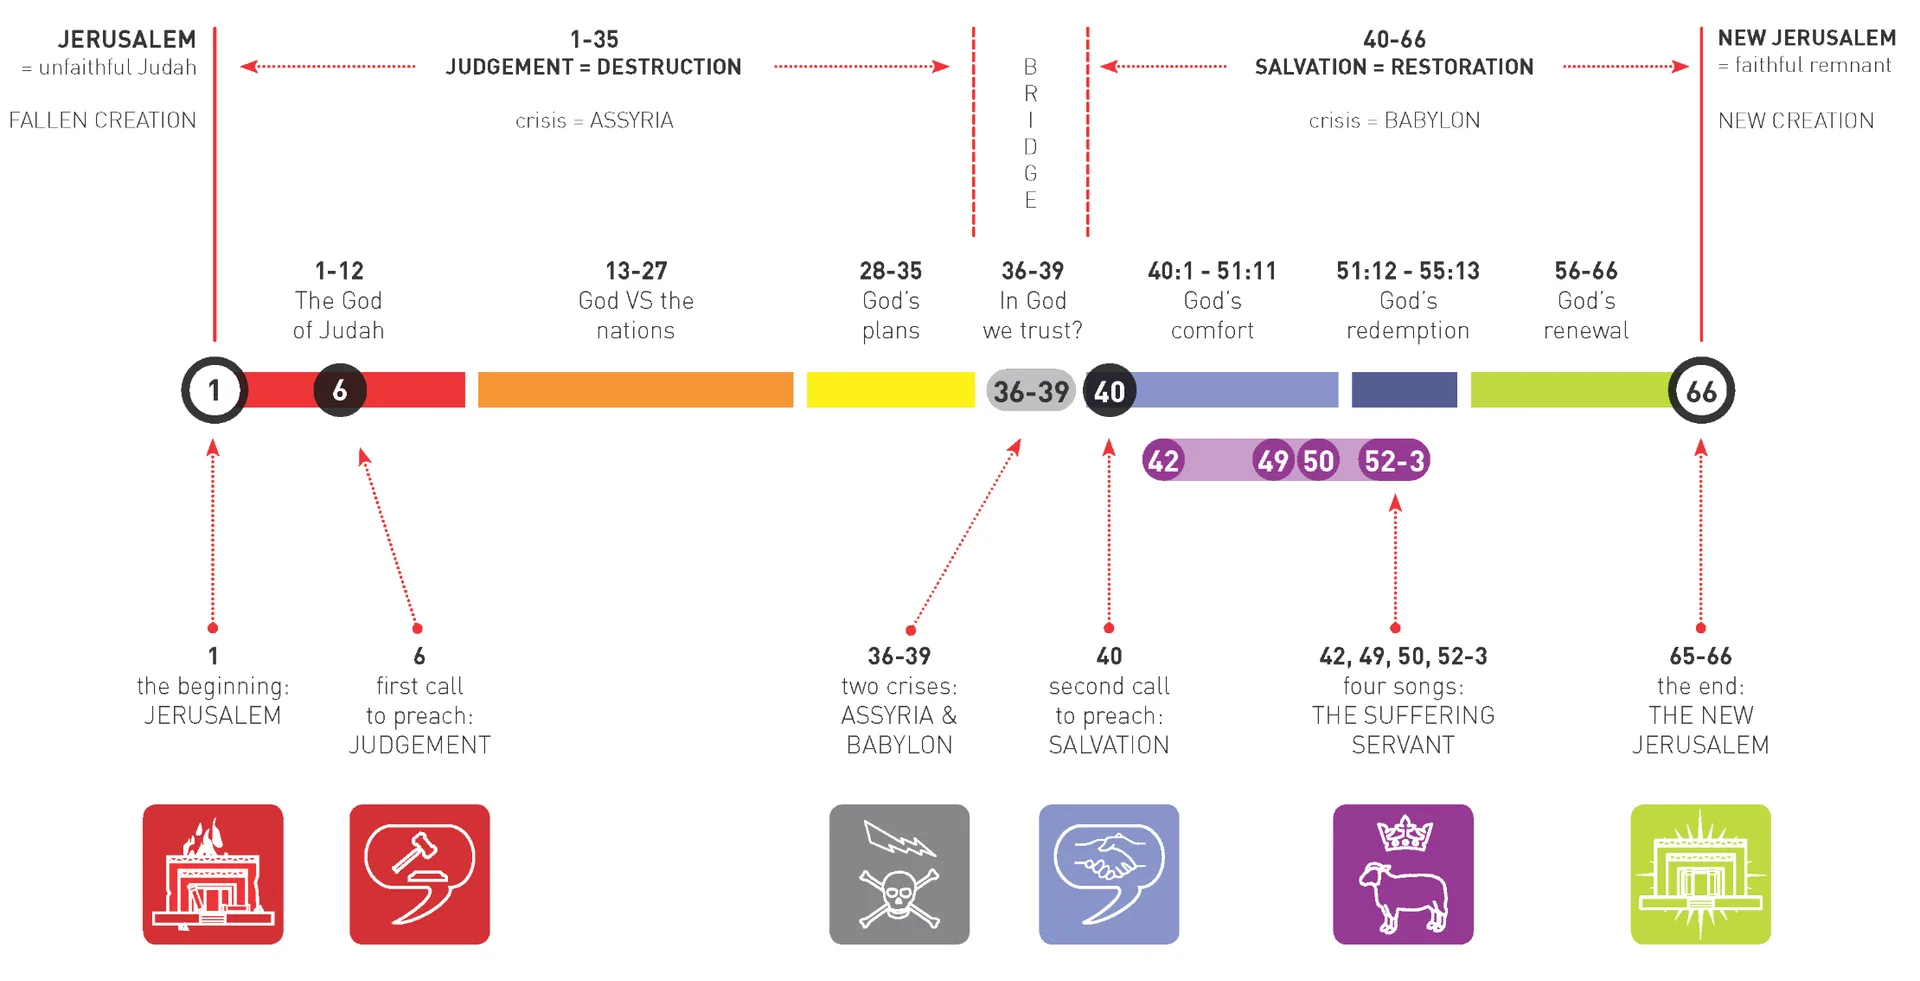
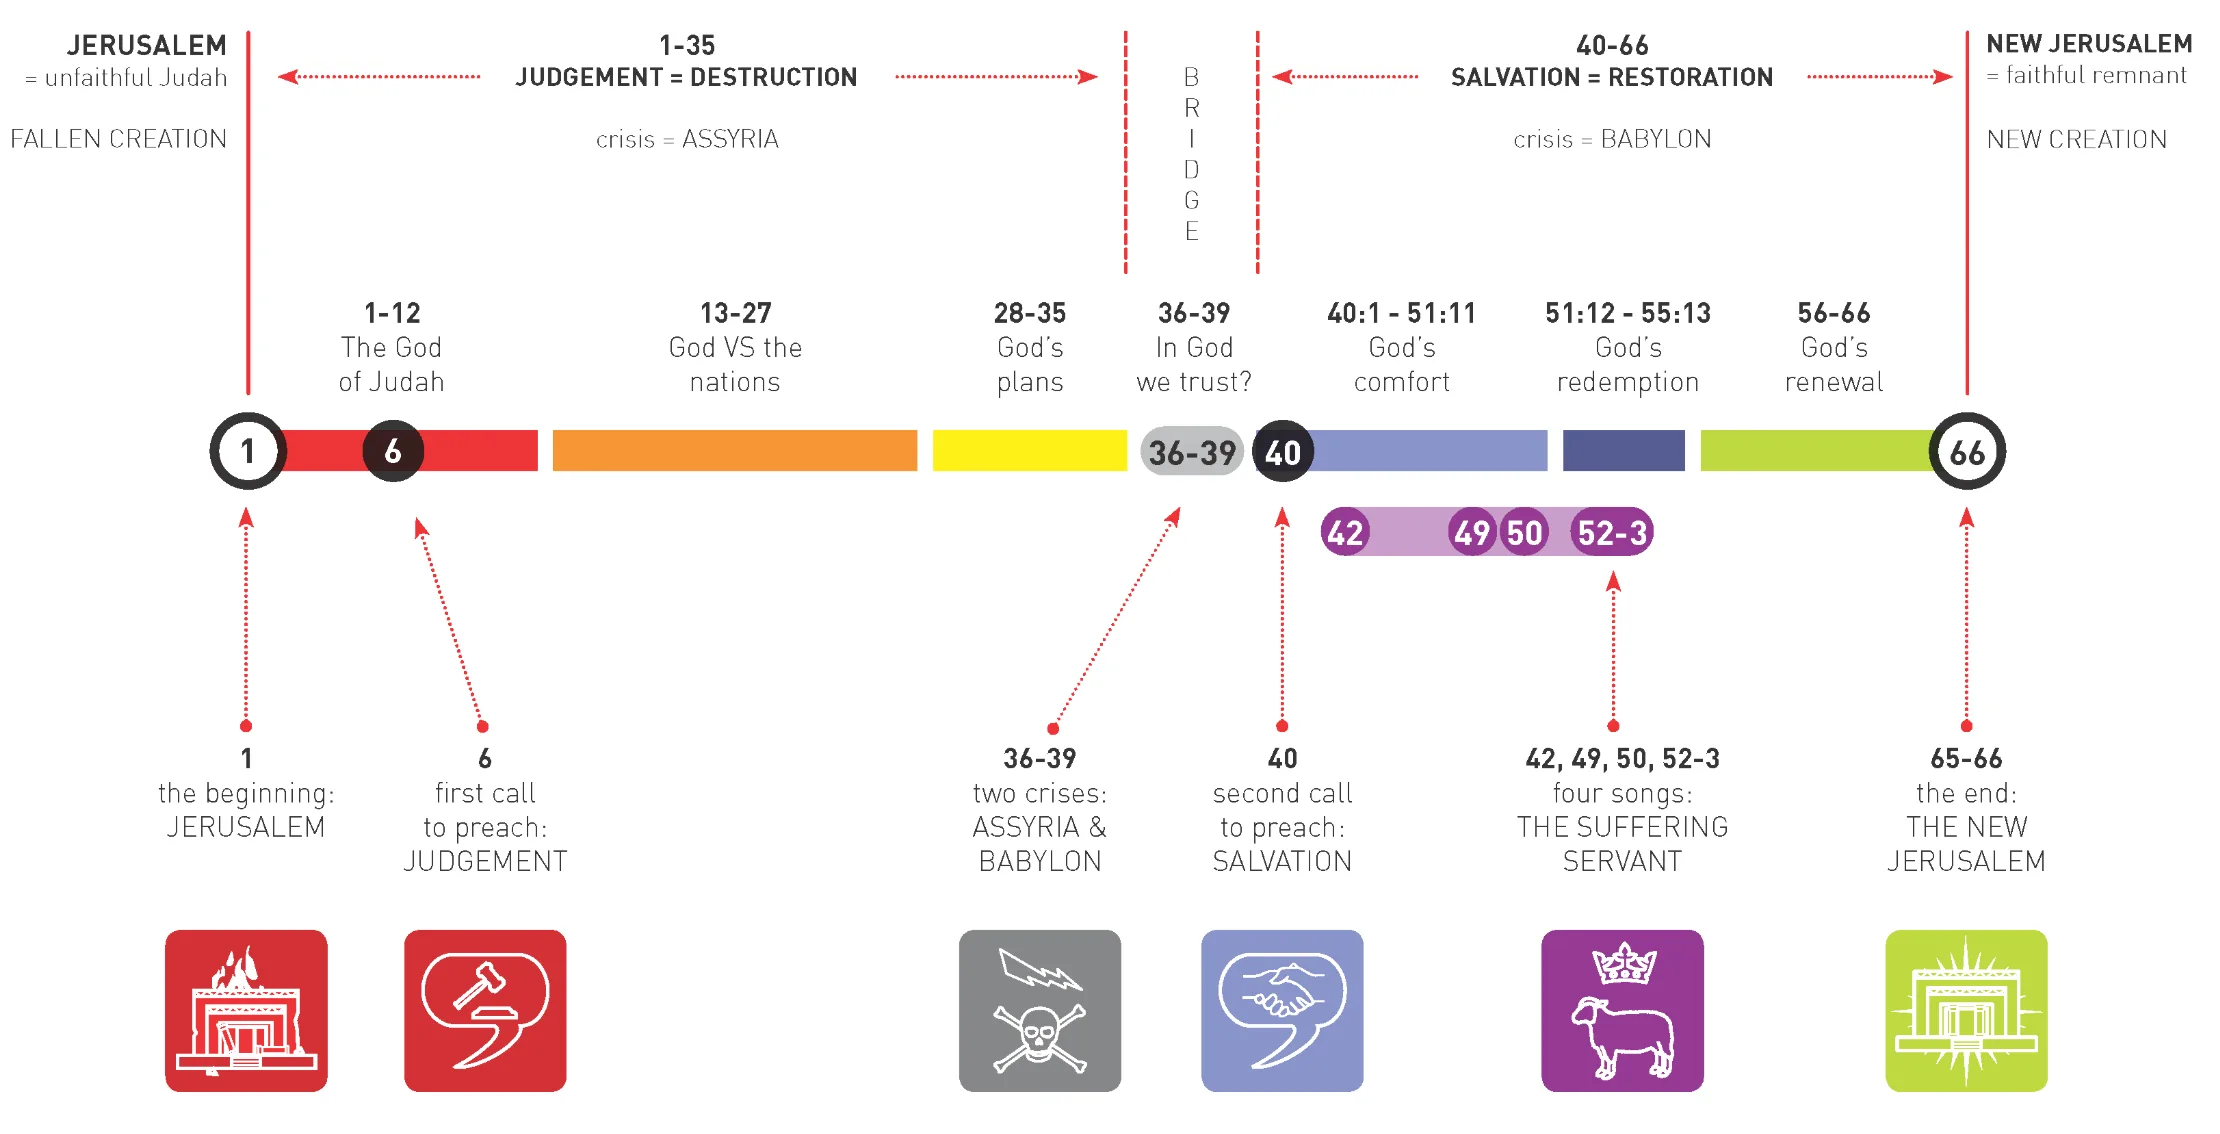
Lesson for Oct 19–25 (Jeremiah); notes from Claude Design; sharper infographics
"Before I Formed Thee in the Belly I Knew Thee" (Jeremiah 1–3; 7; 16–18; 20):
Michelangelo's Jeremiah on the title, Elder Holland's Sabbath video, a full-
screen timeline, and the discussion slides, with the follow-along join slide
since there is a timeline to zoom into. The video embed gets the same
treatment as before (no-cookie domain, no related videos, inline on iPhone,
poster behind it).

Claude Design now writes presenter notes as data-speaker-notes on each slide.
The parser reads them, the import script and the /manage upload pass them to
deck_save, and a slide with no notes keeps whatever was typed in /manage on a
re-import.

Imported images were capped at slide size, which blurred infographics once
students pinch-zoomed in. The cap is now twice slide size (3840x2160); last
week's two timelines are regenerated at their full resolution at the same
addresses.

diff --git a/lessons/2026-10-19-before-i-formed-thee/Jeremiah Lesson.dc.html b/lessons/2026-10-19-before-i-formed-thee/Jeremiah Lesson.dc.html
@@ -1,0 +1,42 @@
+<!DOCTYPE html>
+<html><head><meta charset="utf-8"><meta name="viewport" content="width=device-width, initial-scale=1"><script src="./support.js"></script></head><body>
+<x-dc>
+<!-- cwass:join=follow --> <!-- no polls; the follow-along slide helps people zoom into the timeline -->
+<helmet><script src="./ds-base.js"></script><style>body{margin:0;background:#D5CFBE}@media print{@page{size:1920px 1080px;margin:0}section{page-break-after:always;box-shadow:none !important}}</style></helmet>
+<div style="width:100%;overflow:hidden;height:var(--deck-h,auto)"><div data-deck-stack="true" style="display:flex;flex-direction:column;align-items:flex-start;gap:24px;padding:24px;width:1968px;transform:scale(var(--deck-scale,1));transform-origin:top left">
+<section data-screen-label="01 Title" style="box-sizing:border-box;width:1920px;height:1080px;position:relative;overflow:hidden;font-family:'Source Serif 4',Georgia,serif;box-shadow:0 12px 32px rgba(53,56,58,.14);background:#003057;color:#fff;display:flex">
+<div style="flex:1;padding:80px 112px;display:flex;flex-direction:column"><div style="font-family:'Source Sans 3',Helvetica,sans-serif;font-size:36px;font-weight:600;letter-spacing:.14em;text-transform:uppercase;color:rgba(255,255,255,.72)">Sunday School · Come, Follow Me</div><div style="flex:1"></div>
+<h1 style="font-size:84px;line-height:1.05;letter-spacing:-.02em;font-weight:600;margin:0;text-wrap:pretty;color:#fff">“Before I Formed Thee in the Belly I Knew Thee”</h1><hr style="width:120px;height:5px;background:#DBBF6B;border:0;margin:48px 0 40px">
+<div style="font-size:42px;line-height:1.5;color:rgba(255,255,255,.9)">Jeremiah 1–3; 7; 16–18; 20</div><div style="font-family:'Source Sans 3',sans-serif;font-size:36px;color:rgba(255,255,255,.8);margin-top:12px">October 19–25</div><div style="flex:1"></div></div>
+<div style="width:787px;height:100%;position:relative;background:#001e38"><img src="uploads/pasted-1792949905868-0.png" alt="The Prophet Jeremiah by Michelangelo" style="width:100%;height:100%;object-fit:cover;display:block"><div style="position:absolute;left:0;right:0;bottom:0;padding:48px 40px 28px;background:linear-gradient(to top,rgba(0,48,87,.86),rgba(0,48,87,0));font-family:'Source Sans 3',sans-serif;font-size:24px;font-style:italic;color:#fff">Michelangelo, The Prophet Jeremiah, Sistine Chapel ceiling, c. 1511</div></div></section>
+<section data-screen-label="02 Elder Holland video" data-speaker-notes="Play the video." style="box-sizing:border-box;width:1920px;height:1080px;position:relative;overflow:hidden;font-family:'Source Serif 4',Georgia,serif;box-shadow:0 12px 32px rgba(53,56,58,.14);padding:80px 112px;background:#003057;color:#fff;display:flex;flex-direction:column;padding:56px 112px 48px"><div style="font-family:'Source Sans 3',Helvetica,sans-serif;font-size:36px;font-weight:600;letter-spacing:.14em;text-transform:uppercase;color:rgba(255,255,255,.72)">Opening activity</div><div style="flex:1;display:flex;justify-content:center;align-items:center;min-height:0;margin:24px 0"><div style="height:100%;aspect-ratio:16/9;max-width:100%;border-radius:6px;overflow:hidden;background:#000 url(https://i.ytimg.com/vi/5b-7uzXtd-0/maxresdefault.jpg) center/cover no-repeat"><iframe src="https://www.youtube-nocookie.com/embed/5b-7uzXtd-0?rel=0&amp;playsinline=1" title="Upon My Holy Day: Honoring the Sabbath" loading="lazy" allow="autoplay; encrypted-media; picture-in-picture; fullscreen" allowfullscreen style="width:100%;height:100%;border:0;display:block"></iframe></div></div>
+<h2 style="font-size:56px;line-height:1.15;font-weight:600;margin:0;text-align:center;text-wrap:pretty;color:#fff">What words come to mind when you hear the word “Sabbath”?</h2></section>
+<section data-screen-label="03 Opening discussion" data-speaker-notes="Invite a few short responses." style="box-sizing:border-box;width:1920px;height:1080px;position:relative;overflow:hidden;font-family:'Source Serif 4',Georgia,serif;box-shadow:0 12px 32px rgba(53,56,58,.14);padding:80px 112px;background:#235C35;color:#fff;display:flex;flex-direction:column;align-items:center;justify-content:center;text-align:center"><div style="font-family:'Source Sans 3',Helvetica,sans-serif;font-size:36px;font-weight:600;letter-spacing:.14em;text-transform:uppercase;color:rgba(255,255,255,.72)">Discussion</div><h2 style="font-size:88px;line-height:1.05;letter-spacing:-.02em;font-weight:600;margin:40px 0 0;max-width:18ch;text-wrap:pretty;color:#fff">What are some ways we can “hallow the Sabbath day”?</h2><hr style="width:120px;height:5px;background:#DBBF6B;border:0;margin:56px 0 0"></section>
+<section data-screen-label="04 Timeline" data-speaker-notes="Briefly introduce Jeremiah's historical setting and the challenges he faced." style="box-sizing:border-box;width:1920px;height:1080px;position:relative;overflow:hidden;font-family:'Source Serif 4',Georgia,serif;box-shadow:0 12px 32px rgba(53,56,58,.14);background:#FAF8F3;display:flex;justify-content:center"><img src="uploads/pasted-1792949864855-0.png" alt="Jeremiah timeline" style="height:1080px;width:auto;display:block"></section>
+<section data-screen-label="05 Metaphors" data-speaker-notes="" style="box-sizing:border-box;width:1920px;height:1080px;position:relative;overflow:hidden;font-family:'Source Serif 4',Georgia,serif;box-shadow:0 12px 32px rgba(53,56,58,.14);padding:80px 112px;background:#EFEFE7;display:flex;flex-direction:column;justify-content:center"><div style="font-family:'Source Sans 3',Helvetica,sans-serif;font-size:36px;font-weight:600;letter-spacing:.14em;text-transform:uppercase;color:#676B6E">Metaphors in scripture</div><hr style="width:120px;height:5px;background:#C1A01E;border:0;margin:32px 0 56px"><p style="font-size:42px;line-height:1.5;color:#53575B;margin:0 0 56px;max-width:52ch;text-wrap:pretty">The book of Jeremiah is rich with metaphor: the partridge, the tree by a river, hunters and fishers, and the potter’s clay (Jeremiah 16–18).</p><ul style="list-style:none;margin:0;padding:0;display:flex;flex-direction:column;gap:36px"><li style="font-size:52px;line-height:1.3;padding-left:48px;position:relative;color:#000;text-wrap:pretty"><span style="position:absolute;left:0;top:.5em;width:14px;height:14px;background:#C1A01E"></span>What are some of your favorite metaphors in scripture?</li><li style="font-size:52px;line-height:1.3;padding-left:48px;position:relative;color:#000;text-wrap:pretty"><span style="position:absolute;left:0;top:.5em;width:14px;height:14px;background:#C1A01E"></span>Are there any in Jeremiah that you discovered this week or have always loved?</li></ul></section>
+<section data-screen-label="06 Weight of callings" data-speaker-notes="" style="box-sizing:border-box;width:1920px;height:1080px;position:relative;overflow:hidden;font-family:'Source Serif 4',Georgia,serif;box-shadow:0 12px 32px rgba(53,56,58,.14);padding:80px 112px;background:#EFEFE7;display:flex;flex-direction:column;justify-content:center"><div style="font-family:'Source Sans 3',Helvetica,sans-serif;font-size:36px;font-weight:600;letter-spacing:.14em;text-transform:uppercase;color:#676B6E">The weight of our callings</div><hr style="width:120px;height:5px;background:#C1A01E;border:0;margin:32px 0 56px"><p style="font-size:42px;line-height:1.5;color:#53575B;margin:0 0 56px;max-width:52ch;text-wrap:pretty">Jeremiah 1:5 teaches that before he was born, Jeremiah was ordained to be a prophet to the nations. In Jeremiah 20, he laments the difficulties of his calling.</p><ul style="list-style:none;margin:0;padding:0;display:flex;flex-direction:column;gap:36px"><li style="font-size:52px;line-height:1.3;padding-left:48px;position:relative;color:#000;text-wrap:pretty"><span style="position:absolute;left:0;top:.5em;width:14px;height:14px;background:#C1A01E"></span>What are some things that make our callings difficult?</li></ul></section>
+<section data-screen-label="06b Weight of callings" data-speaker-notes="" style="box-sizing:border-box;width:1920px;height:1080px;position:relative;overflow:hidden;font-family:'Source Serif 4',Georgia,serif;box-shadow:0 12px 32px rgba(53,56,58,.14);padding:80px 112px;background:#235C35;color:#fff;display:flex;flex-direction:column;justify-content:center"><div style="font-family:'Source Sans 3',Helvetica,sans-serif;font-size:36px;font-weight:600;letter-spacing:.14em;text-transform:uppercase;color:rgba(255,255,255,.72)">The weight of our callings</div><hr style="width:120px;height:5px;background:#DBBF6B;border:0;margin:32px 0 56px"><ul style="list-style:none;margin:0;padding:0;display:flex;flex-direction:column;gap:36px"><li style="font-size:52px;line-height:1.3;padding-left:48px;position:relative;color:#fff;text-wrap:pretty"><span style="position:absolute;left:0;top:.5em;width:14px;height:14px;background:#DBBF6B"></span>Think of a time when fulfilling a responsibility or calling—in the Church, at home, or at work—was difficult.</li><li style="font-size:52px;line-height:1.3;padding-left:48px;position:relative;color:#fff;text-wrap:pretty"><span style="position:absolute;left:0;top:.5em;width:14px;height:14px;background:#DBBF6B"></span>What counsel would you give someone feeling the weight of such a calling, based on what you’ve learned from the Lord?</li></ul></section>
+<section data-screen-label="07 Heal your backslidings" data-speaker-notes="" style="box-sizing:border-box;width:1920px;height:1080px;position:relative;overflow:hidden;font-family:'Source Serif 4',Georgia,serif;box-shadow:0 12px 32px rgba(53,56,58,.14);padding:80px 112px;background:#EFEFE7;display:flex;flex-direction:column;justify-content:center"><div style="font-family:'Source Sans 3',Helvetica,sans-serif;font-size:36px;font-weight:600;letter-spacing:.14em;text-transform:uppercase;color:#676B6E">“I will heal your backslidings”</div><hr style="width:120px;height:5px;background:#C1A01E;border:0;margin:32px 0 56px"><p style="font-size:42px;line-height:1.5;color:#53575B;margin:0 0 56px;max-width:52ch;text-wrap:pretty">In Jeremiah 7, the Lord calls His people to repent. In Jeremiah 3:22, He promises, “I will heal your backslidings.”</p><ul style="list-style:none;margin:0;padding:0;display:flex;flex-direction:column;gap:36px"><li style="font-size:52px;line-height:1.3;padding-left:48px;position:relative;color:#000;text-wrap:pretty"><span style="position:absolute;left:0;top:.5em;width:14px;height:14px;background:#C1A01E"></span>How can we help someone know they are loved, even when they’ve made mistakes?</li><li style="font-size:52px;line-height:1.3;padding-left:48px;position:relative;color:#000;text-wrap:pretty"><span style="position:absolute;left:0;top:.5em;width:14px;height:14px;background:#C1A01E"></span>Why can this be difficult sometimes, especially in our closest relationships?</li></ul></section>
+<section data-screen-label="08 Fishers and hunters" data-speaker-notes="" style="box-sizing:border-box;width:1920px;height:1080px;position:relative;overflow:hidden;font-family:'Source Serif 4',Georgia,serif;box-shadow:0 12px 32px rgba(53,56,58,.14);padding:80px 112px;background:#003057;color:#fff;display:flex;flex-direction:column;justify-content:center"><div style="font-family:'Source Sans 3',Helvetica,sans-serif;font-size:36px;font-weight:600;letter-spacing:.14em;text-transform:uppercase;color:rgba(255,255,255,.72)">Closing invitation · Fishers and hunters</div><hr style="width:120px;height:5px;background:#DBBF6B;border:0;margin:32px 0 56px"><h2 style="font-size:64px;line-height:1.15;letter-spacing:-.015em;font-weight:600;margin:0;max-width:26ch;text-wrap:pretty;color:#fff">Prayerfully consider how you might be a fisher or a hunter this week (Jeremiah 16:16).</h2>
+<p style="font-size:42px;line-height:1.5;color:rgba(255,255,255,.9);margin:48px 0 0;max-width:42ch;text-wrap:pretty">The Lord may inspire you to make a phone call or share something on social media that builds, lifts, edifies, or inspires.</p>
+<p style="font-size:48px;line-height:1.3;font-weight:700;color:#DBBF6B;margin:48px 0 0;max-width:30ch">Act on that prompting and record your experience.</p></section>
+</div></div>
+</x-dc>
+<script type="text/x-dc" data-dc-script>
+class Component extends DCLogic {
+  componentDidMount() {
+    this.fit = () => {
+      const stack = document.querySelector('[data-deck-stack]');
+      const scale = Math.min(1, window.innerWidth / 1968);
+      if (!stack) return;
+      const root = document.documentElement.style;
+      root.setProperty('--deck-scale', String(scale));
+      root.setProperty('--deck-h', (stack.scrollHeight * scale) + 'px');
+    };
+    this.fit();
+    window.addEventListener('resize', this.fit);
+    setTimeout(this.fit, 300);
+  }
+  componentWillUnmount() { window.removeEventListener('resize', this.fit); }
+}
+</script></body></html>

diff --git a/src/decks/parse.ts b/src/decks/parse.ts
@@ -7,6 +7,8 @@ export interface ParsedSlide {
   idx: number;
   label: string;
   html: string;
+  /** Presenter notes Claude Design keeps in data-speaker-notes; shown only in /manage. */
+  notes: string;
 }
 export interface ParsedDeck {
   title: string;
@@ -131,6 +133,15 @@ function sections(html: string) {
   return found;
 }
 
+function decodeEntities(value: string) {
+  return value
+    .replace(/&quot;/g, '"')
+    .replace(/&#39;|&apos;/g, "'")
+    .replace(/&lt;/g, '<')
+    .replace(/&gt;/g, '>')
+    .replace(/&amp;/g, '&');
+}
+
 function text(html: string) {
   return html
     .replace(/<[^>]*>/g, ' ')
@@ -186,9 +197,11 @@ export function parseDeck(source: string, fallbackTitle = 'Untitled lesson', tok
   const slides = anchored.map((html, idx) => {
     const open = /^<section[^>]*>/i.exec(html);
     const label = open ? attribute(open[0], 'data-screen-label') : null;
+    const notes = open ? attribute(open[0], 'data-speaker-notes') : null;
     return {
       idx,
       label: ((label?.[2] ?? label?.[3] ?? '') || '').slice(0, 200),
+      notes: decodeEntities((notes?.[2] ?? notes?.[3] ?? '').trim()).slice(0, 20000),
       html: resolveVars(expandComponents(dropShadow(html), warnings), tokens),
     };
   });

diff --git a/src/decks/LessonPanel.tsx b/src/decks/LessonPanel.tsx
@@ -84,8 +84,8 @@ export function LessonPanel({
       // Same lesson markers as scripts/import-deck.mjs: opt out, or the follow-along version.
       slides: (source.includes('<!-- cwass:no-join -->')
         ? parsed.slides
-        : withJoinSlide(parsed.slides, (j) => ({ ...j, idx: -1 }), source.includes('<!-- cwass:join=follow -->') ? 'follow' : 'questions')
-      ).map(({ label, html }) => ({ label, html })),
+        : withJoinSlide(parsed.slides, (j) => ({ ...j, idx: -1, notes: '' }), source.includes('<!-- cwass:join=follow -->') ? 'follow' : 'questions')
+      ).map(({ label, html, notes }) => ({ label, html, ...(notes ? { notes } : {}) })),
     });
   }
 

diff --git a/README.md b/README.md
@@ -43,7 +43,7 @@ pnpm import-deck lessons/2026-09-14-god-is-my-salvation --subtitle "Isaiah 1–1
 python3 scripts/supabase-query.py /tmp/lesson.sql
 ```
 
-- `--local-assets` resizes photos to fit a 1920×1080 slide, saves them as WebP in
+- `--local-assets` saves images as WebP (at most twice slide size, so zoomed-in infographics stay sharp) in
   `public/decks/<slug>/` (committed; the originals in `lessons/` are git-ignored), and points the
   slides there. The addresses are stable, so an image added later needs only a deploy.
 - `--sql` writes a transaction that calls `deck_save` as the admin, run through the Management
